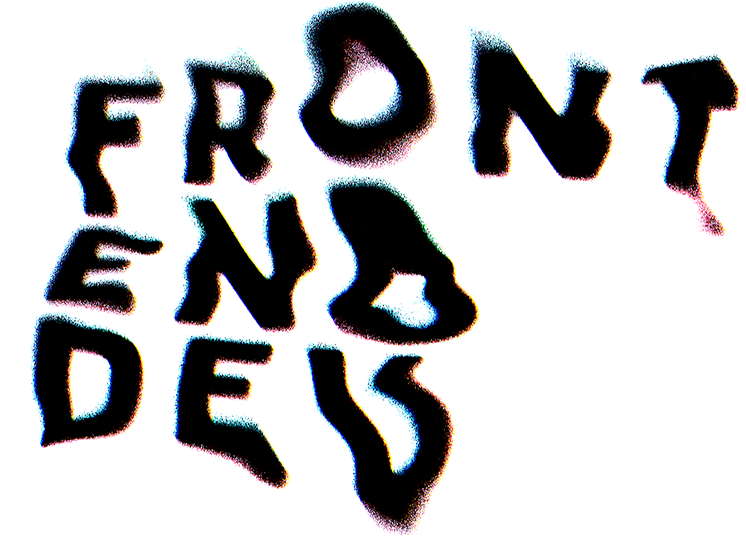
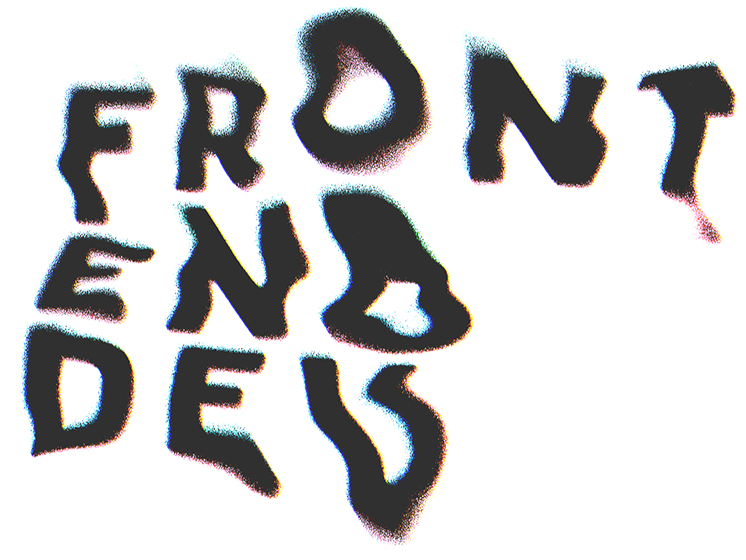
Some visual changes

diff --git a/index.html b/index.html
@@ -147,8 +147,8 @@
           alt="Heylo"
           class="intro__image"
         />
-        <h1>I'm Rachel</h1>
-        <p>I'm a creative frontend developer. Check out my work.</p>
+
+        <p>I'm Rachel. I'm a creative frontend developer. Check out my work.</p>
       </section>
       <section class="toolbox">
         <img
@@ -346,15 +346,15 @@
                 <div class="slide__links">
                   <a href="#" class="slide__link"
                     ><img
-                      src="/assets/images/live-icon.jpg"
+                      src="/assets/images/link-icon.jpg"
                       alt="live icon"
-                    />See it live</a
+                    />Live Link</a
                   >
                   <a href="#" class="slide__link"
                     ><img
                       src="/assets/images/github.png"
                       alt="github logo"
-                    />See it on Github</a
+                    />Github Link</a
                   >
                 </div>
                 <div class="slide__desc">
@@ -371,17 +371,17 @@
                     ><img
                       src="/assets/images/live-icon.jpg"
                       alt="live icon"
-                    />See it live</a
+                    />Live Link</a
                   >
                   <a href="#" class="slide__link"
                     ><img
                       src="/assets/images/github.png"
                       alt="github logo"
-                    />See it on Github</a
+                    />Github Link</a
                   >
                 </div>
                 <div class="slide__desc">
-                  <h3>Mobile-first Ecommerce Website</h3>
+                  <h3>Mobile-first Ecommerce Website/SPA</h3>
                   <p>Built with Typescript, React, Vite</p>
                 </div>
               </div>
@@ -394,17 +394,17 @@
                     ><img
                       src="/assets/images/live-icon.jpg"
                       alt="live icon"
-                    />See it live</a
+                    />Live Link</a
                   >
                   <a href="#" class="slide__link"
                     ><img
                       src="/assets/images/github.png"
                       alt="github logo"
-                    />See it on Github</a
+                    />Github Link</a
                   >
                 </div>
                 <div class="slide__desc">
-                  <h3>Mobile-first Ecommerce Website</h3>
+                  <h3>Responsive Rock Paper Scissors Game</h3>
                   <p>Built with Typescript, React, Vite</p>
                 </div>
               </div>
@@ -417,13 +417,13 @@
                     ><img
                       src="/assets/images/live-icon.jpg"
                       alt="live icon"
-                    />See it live</a
+                    />Live Link</a
                   >
                   <a href="#" class="slide__link"
                     ><img
                       src="/assets/images/github.png"
                       alt="github logo"
-                    />See it on Github</a
+                    />Github Link</a
                   >
                 </div>
                 <div class="slide__desc">

diff --git a/styles.css b/styles.css
@@ -18,7 +18,7 @@ body.dark-theme {
   --icon-toggle: #333;
   --header-bg: #333;
   --header-color: #f0f0f0;
-  --background: #121212;
+  --background: #333;
   --fill: #f0f0f0;
 }
 
@@ -272,6 +272,10 @@ nav a {
 
 .nav-links.active-menu {
   display: flex;
+  background-color: #e8e8e8;
+  border-radius: 5px;
+  padding: 1em;
+  margin: 1em;
 }
 
 .nav-links a {
@@ -351,7 +355,7 @@ nav a {
   display: flex;
   align-items: center;
   gap: 1rem;
-  /* animation: scroll 30s linear infinite reverse; */
+  animation: scroll 30s linear infinite reverse;
   white-space: nowrap;
 }
 
@@ -501,19 +505,28 @@ nav a {
   text-decoration: none;
 }
 
+.slide__links {
+  display: flex;
+  flex-direction: row;
+}
+
 .slide__link {
   display: flex;
   justify-content: center;
   align-items: center;
   margin: 0.5em 0;
   text-transform: uppercase;
-  font-size: 1.1rem;
+  font-size: 0.8rem;
 }
 
 .slide__link img {
   margin-right: 0.3em;
   width: 20px;
   height: 20px;
+}
+
+.slide__desc {
+  text-align: center;
 }
 
 .slide__content h3 {

diff --git a/script.js b/script.js
@@ -93,7 +93,7 @@ document.addEventListener('DOMContentLoaded', function () {
 
 //   const slideBackgrounds = [
 //     { url: '/assets/images/slide1.jpg' },
-//     { url: 'https://cdn.wallpapersafari.com/3/53/0xgnyc.jpg' },
+//     { url: '/assets/images/slide2.jpg' },
 //     { url: 'https://mcdn.wallpapersafari.com/medium/28/35/fslPOF.jpg' },
 //     { url: 'https://mcdn.wallpapersafari.com/medium/18/88/gsAVlZ.jpg' },
 //   ];
